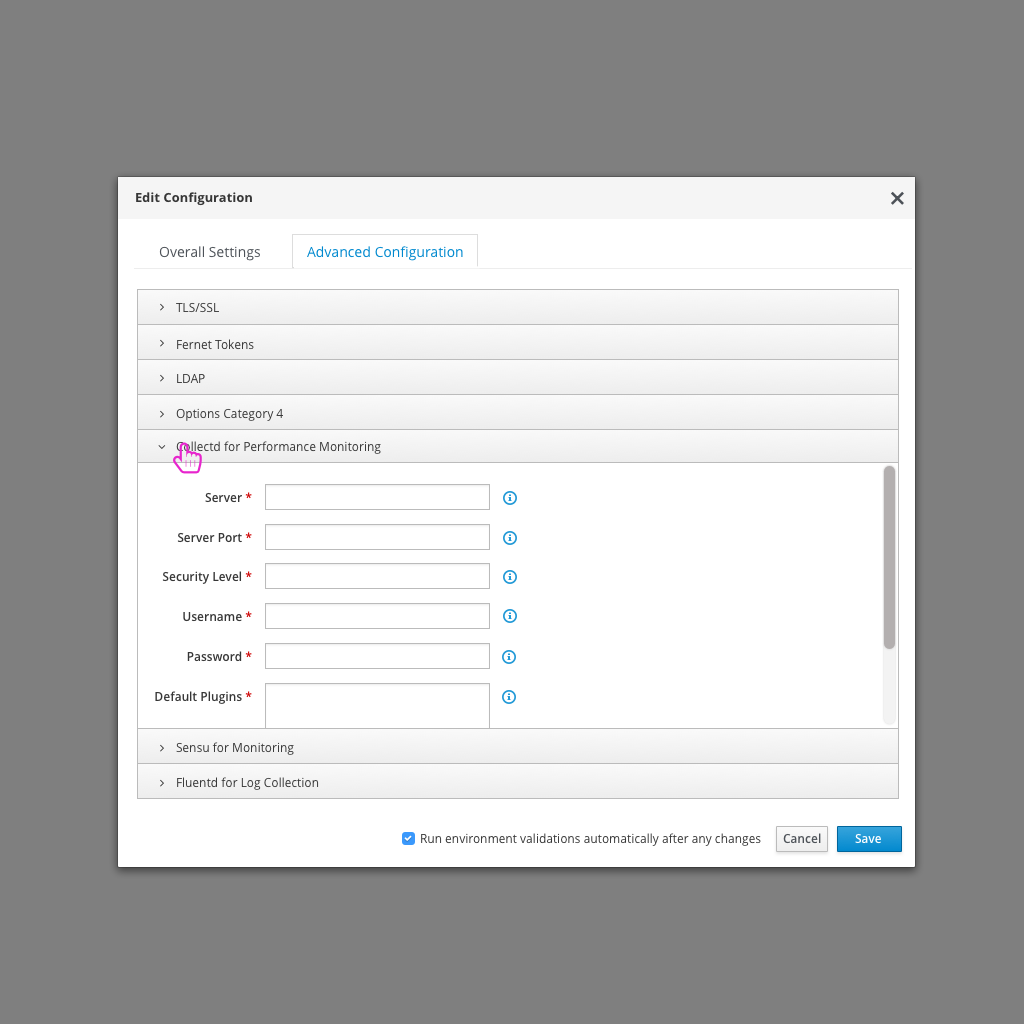
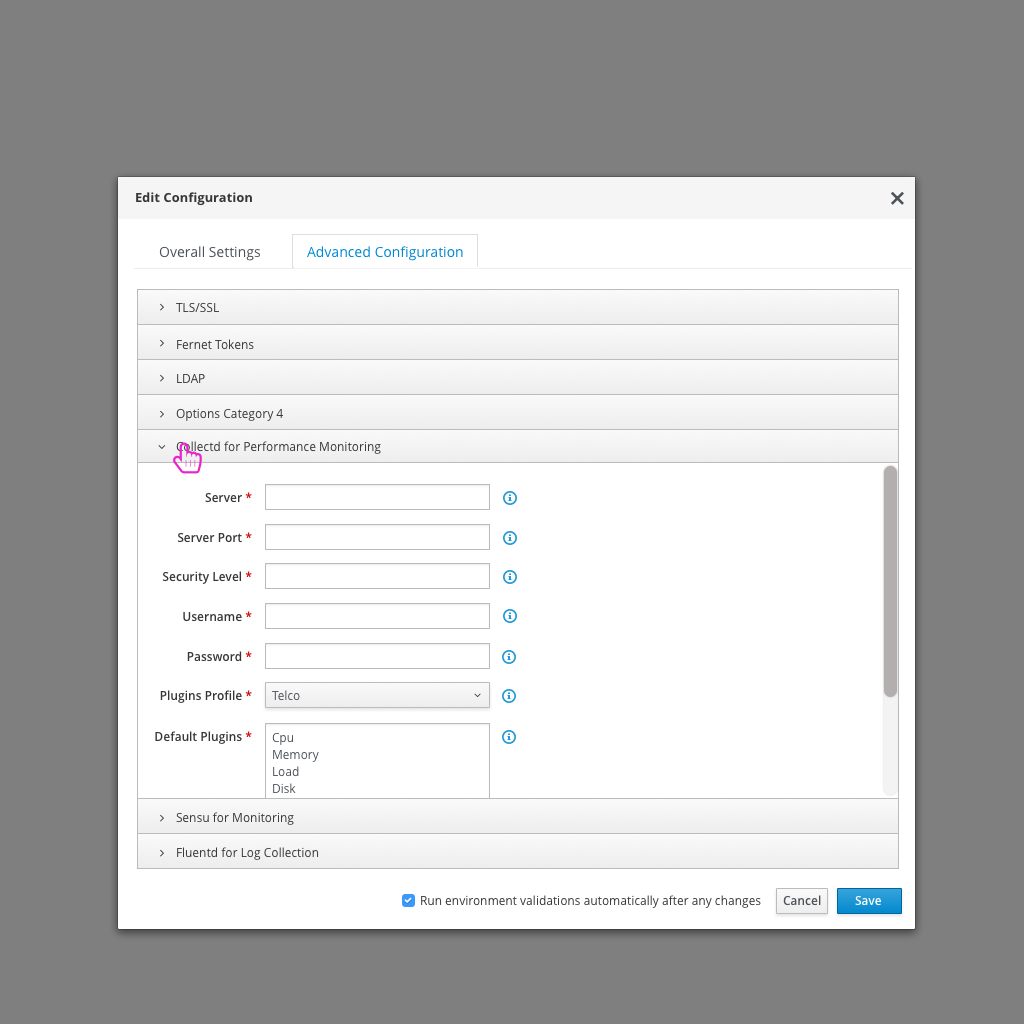
Updates to Collectd configuration and design documentation
This includes details around default plugins

Changed region(s): [[0.0938, 0.6562, 0.9062, 0.9375], [0.8438, 0.625, 0.875, 0.6875], [0.4688, 0.7188, 0.5, 0.75]]

diff --git a/tripleo-ui/5-popular-use-cases/8.OpsTools.md b/tripleo-ui/5-popular-use-cases/8.OpsTools.md
@@ -22,6 +22,27 @@ Today in the TripleO UI, the user can drill into the Edit Configuration modal of
 
 ![editconfigurationmodal2](img/Ops-Edit_Configuration_Modal2.png)
 - At this point, there would be a section for Collectd that the user could open to edit any parameters needed.
+- One parameter for Collectd is the default plugins that should be enabled. There are two profiles (one for Web-Hosters, one for Telco) that we should support. The plugins include:
+##### Web-Hosters
+* Cpu
+* Memory
+* Load
+* Disk
+* Df
+* Either ovs_stats or interface, with a sample rate of 10 secs
+* Depending on installation, it may be good to have the ceph plugin installed
+
+  ##### Telco
+* Cpu
+* Memory
+* Load
+* Disk
+* Df
+* Ovs_stats
+* Mysql (requires specific config)
+* Apache (requires changing apache config and configuring that plugin.
+* (depending on using ceph: ceph)
+* virt
 
 ![editconfigurationmodal3](img/Ops-Edit_Configuration_Modal3.png)
 - Similarly, there would be a section for Sensu that the user could open to edit any parameters needed.
